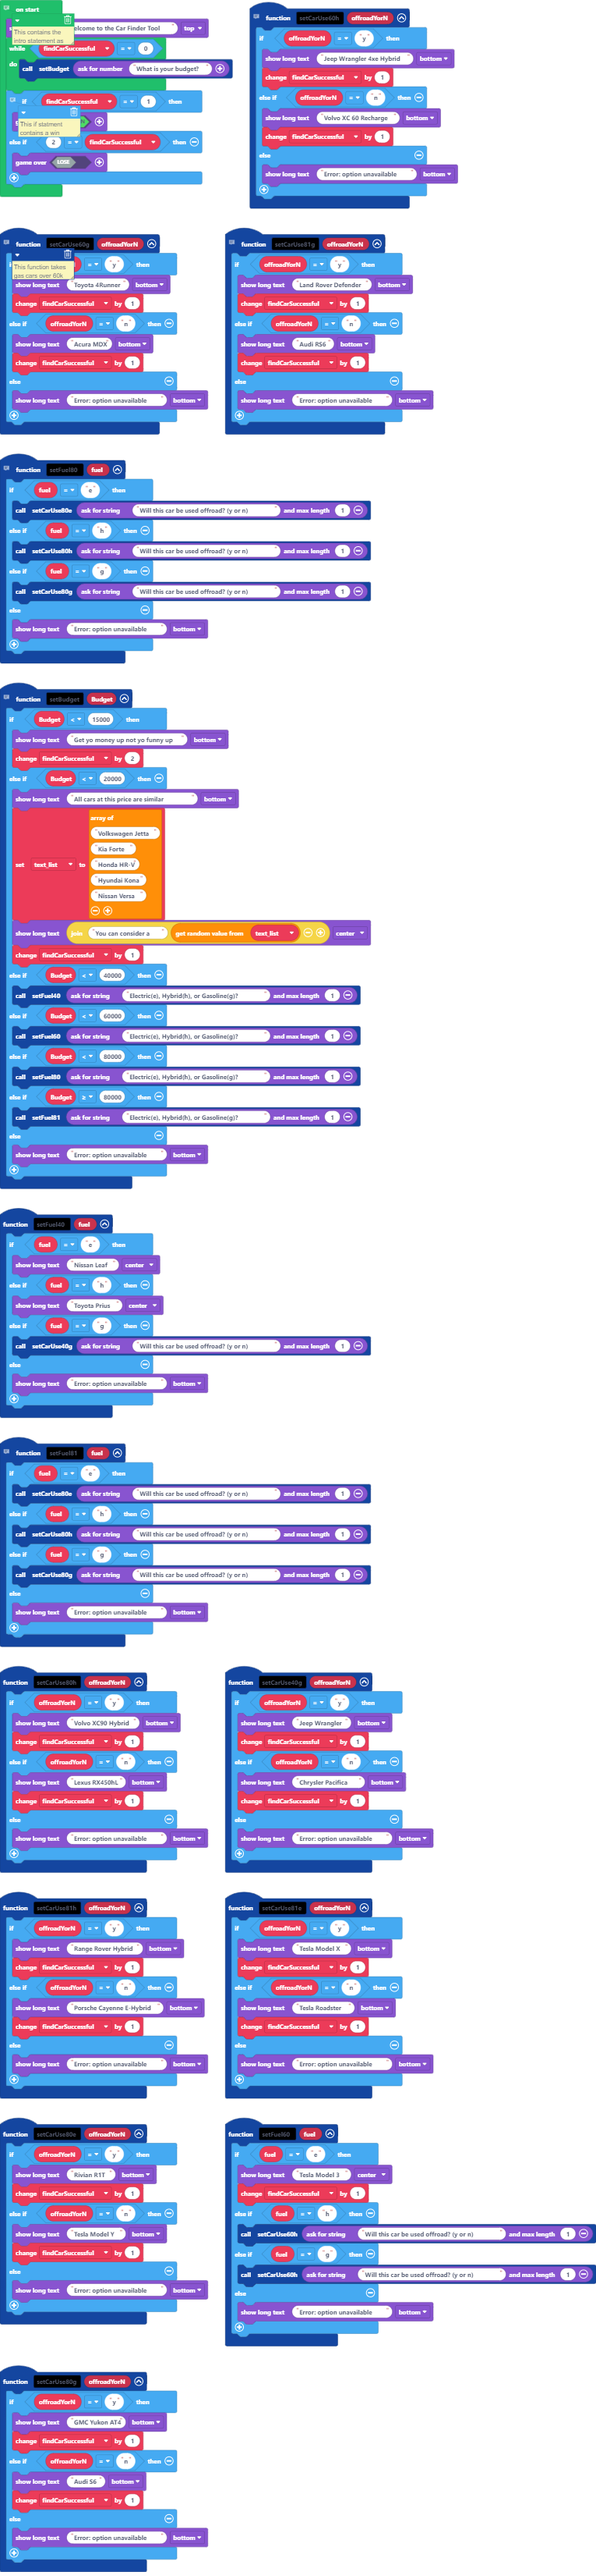
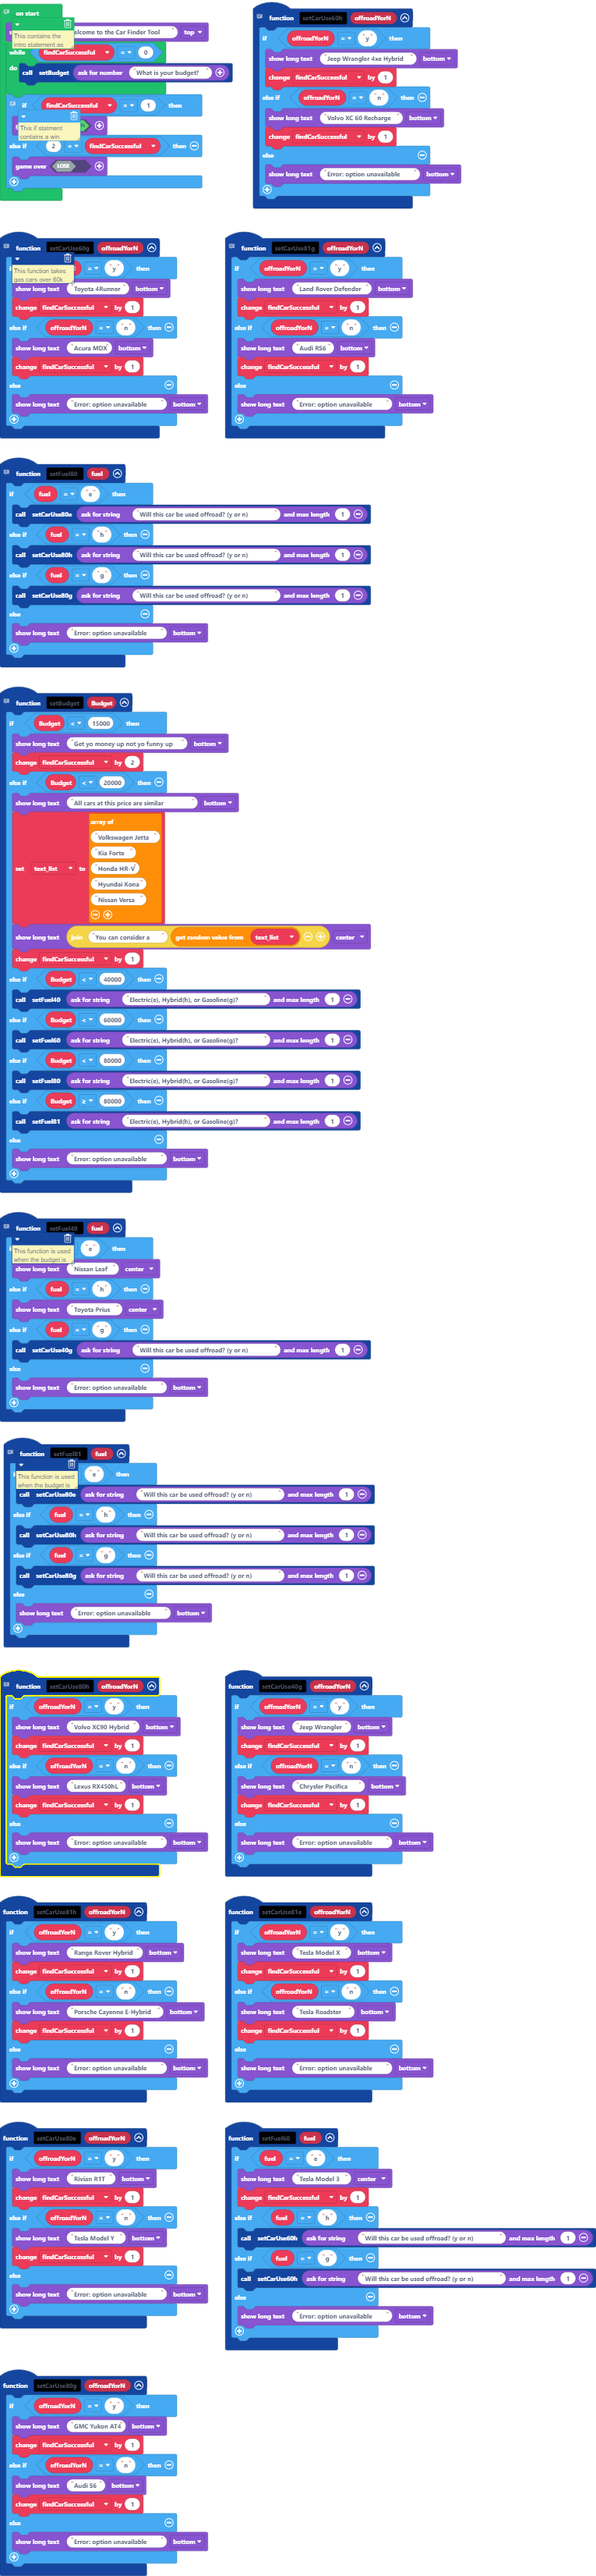
Update main.blocks, main.ts

Changed region(s): [[0.0, 0.0, 0.9922, 0.9375]]

diff --git a/main.ts b/main.ts
@@ -74,6 +74,7 @@ function setBudget (Budget: number) {
         game.showLongText("Error: option unavailable", DialogLayout.Bottom)
     }
 }
+// This function is used when the budget is between 20k and 40k. and gives the user options based on their fuel type selection.
 function setFuel40 (fuel: string) {
     if (fuel == "e") {
         game.showLongText("Nissan Leaf", DialogLayout.Center)
@@ -85,7 +86,7 @@ function setFuel40 (fuel: string) {
         game.showLongText("Error: option unavailable", DialogLayout.Bottom)
     }
 }
-// This function is for cars over 80k. Users will be asked what type of fuel they want. Once selected they will be directed to ask if they want to use the car off road.
+// This function is used when the budget is over 80k and gives the user options about driving their car off road based on their fuel type selection.
 function setFuel81 (fuel: string) {
     if (fuel == "e") {
         setCarUse80e(game.askForString("Will this car be used offroad? (y or n)", 1))
